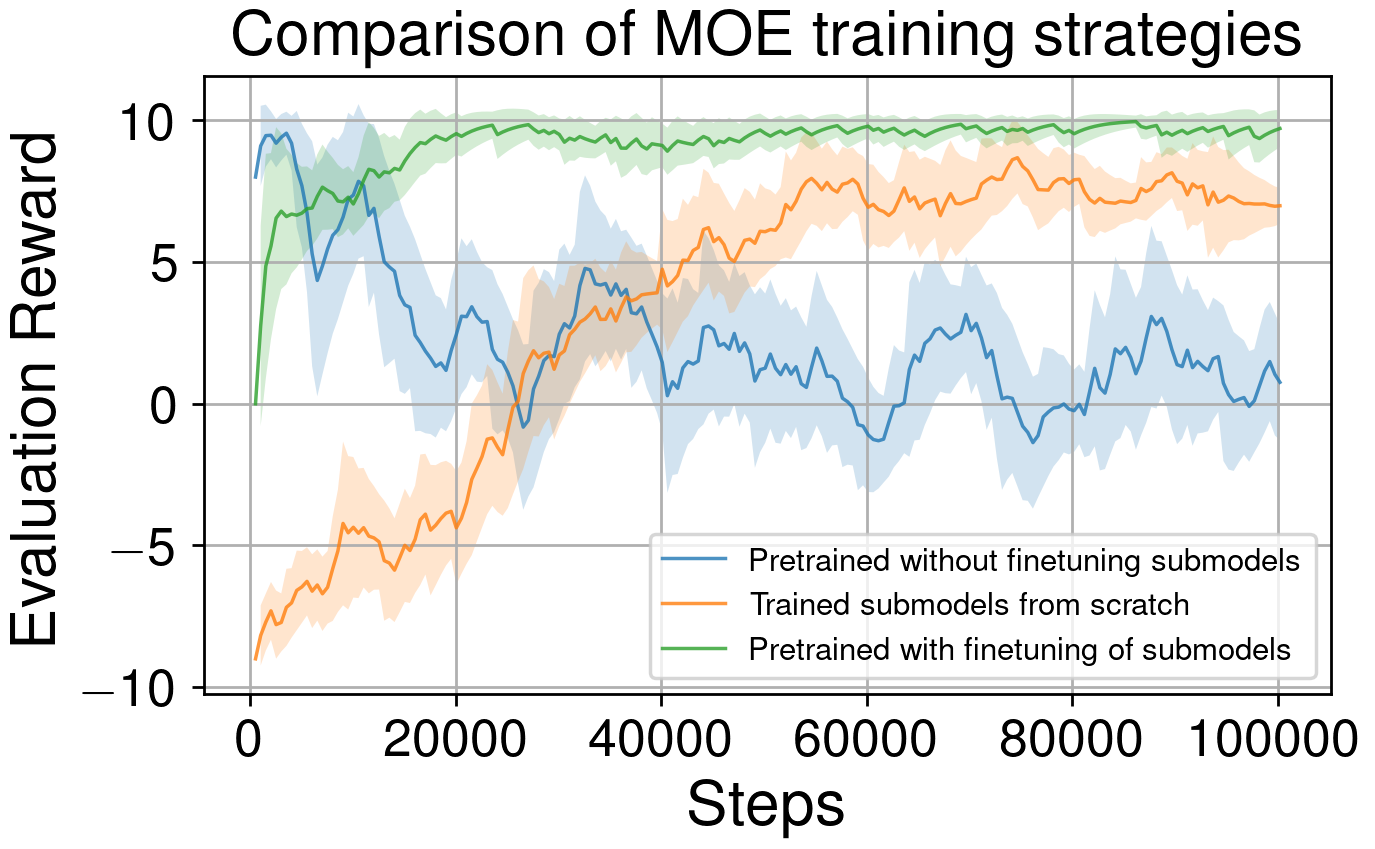
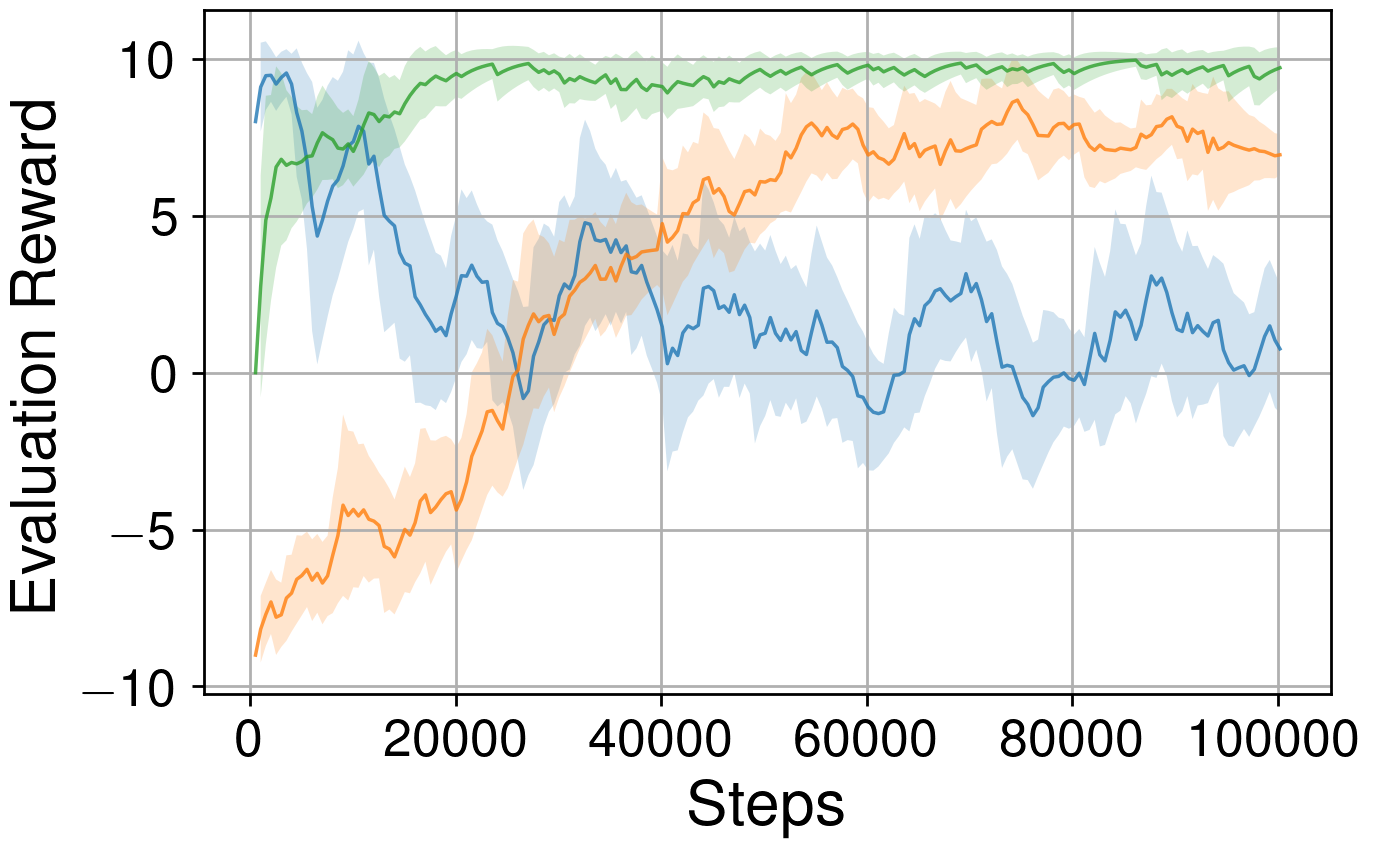
fixed moe graphics

Changed region(s): [[0.0916, 0.0, 0.9775, 0.8269], [0.0, 0.1225, 0.0611, 0.7656]]

diff --git a/report/hockey_eval.tex b/report/hockey_eval.tex
@@ -19,23 +19,38 @@ The performance on the hockey environment is evaluated with the average final pe
 
 The hybrid model is trained against the basic strong and weak opponent, as well as foundation and finetuned \ac{SAC} and \ac{TD3} checkpoints. To prevent overfitting and enhance generalization, opponents are periodically changed throughout training.
 
-\ac{SAC} and \ac{TD3} foundation checkpoints also serve as submodels in the setup with pre-trained experts. As shown in \autoref{fig:moe_train_strategies}, the training strategy that combines pre-trained submodels with simultaneous training of the gate and submodels achieves the highest evaluation reward. The strategy that starts with empty submodels and trains both the gate and submodels also performs well but fails to converge to the maximum reward of ten. Meanwhile, the approach where only the gate is trained initially yields the best evaluation reward but is eventually outperformed by the other strategies as training progresses.
+\ac{SAC} and \ac{TD3} foundation checkpoints also serve as submodels in the setup with pre-trained experts. As shown in \autoref{fig:moe_strategies}, the training strategy that combines pre-trained submodels with simultaneous training of the gate and submodels achieves the highest evaluation reward. The strategy that starts with empty submodels and trains both the gate and submodels also performs well but fails to converge to the maximum reward of ten. Meanwhile, the approach where only the gate is trained initially yields the best evaluation reward but is eventually outperformed by the other strategies as training progresses.
 
 \begin{figure}[h]
     \centering
+    \caption*{Evaluation reward and loss comparison of hybrid model training strategies}
+    \label{fig:moe_strategies}
     \begin{minipage}{0.49\textwidth}
         \centering
         \includegraphics[width=\textwidth]{images/moe_train_strategies.png}
-        \caption{Training strategies for the Hybrid model.}
-        \label{fig:moe_train_strategies}
+        % \caption{Evl strategies (Hybrid model).}
+        % \label{fig:moe_train_strategies}
     \end{minipage}
     \hfill
     \begin{minipage}{0.49\textwidth}
         \centering
         \includegraphics[width=\textwidth]{images/moe_train_strategies_loss.png}
-        \caption{Training strategies for the Hybrid model.}
-        \label{fig:moe_train_strategies_loss}
+        % \caption{Loss comparison (Hybrid model).}
+        % \label{fig:moe_train_strategies_loss}
     \end{minipage}
+
+    \vspace{0.5em} % Kleiner Abstand zur Legende
+    \begin{tikzpicture}
+        % Legenden-Einträge mit geringeren Abständen
+        \draw[blue, thick] (0,0) -- (1,0);
+        \node[right] at (1.2,0) {\small Pre-trained (no fine-tuning)};
+
+        \draw[orange, thick] (5.4,0) -- (6.2,0);
+        \node[right] at (6.4,0) {\small Trained from scratch};
+
+        \draw[green, thick] (2.5,-0.7) -- (3.5,-0.7);
+        \node[right] at (3.7,-0.7) {\small Pre-trained + fine-tuned};
+    \end{tikzpicture}
 \end{figure}
 
-The gate's loss reflects its effectiveness in selecting the optimal submodel for a given state. In \autoref{fig:moe_train_strategies_loss}, periodic peaks in the loss indicate moments when opponents were changed. The training strategy with pre-trained submodels and simultaneous gate-submodel training results in the smoothest loss curve, with a steady decrease after 60,000 steps. In contrast, other strategies exhibit high fluctuations, and their average loss tends to increase over time.
+The gate's loss reflects its effectiveness in selecting the optimal submodel for a given state. In \autoref{fig:moe_strategies}, periodic peaks in the loss indicate moments when opponents were changed. The training strategy with pre-trained submodels and simultaneous gate-submodel training results in the smoothest loss curve, with a steady decrease after 60,000 steps. In contrast, other strategies exhibit high fluctuations, and their average loss tends to increase over time.

diff --git a/report/plots/moe_plots.py b/report/plots/moe_plots.py
@@ -59,14 +59,14 @@ def plot_all_data(a, b, c, title, x_label, y_label, output_file, window=10, ll=N
 
     plot_data(ax, c, "Pretrained with finetuning of submodels", window)
 
-    ax.set_title(title, fontsize=plt.rcParams["axes.titlesize"])
+    # ax.set_title(title, fontsize=plt.rcParams["axes.titlesize"])
     ax.set_xlabel(x_label, fontsize=plt.rcParams["axes.labelsize"])
     ax.set_ylabel(y_label, fontsize=plt.rcParams["axes.labelsize"])
     ax.grid(True)
-    if ll is None:
-        ax.legend(loc="lower right")
-    else:
-        ax.legend(loc="upper left")
+    # if ll is None:
+    # ax.legend(loc="lower right")
+    # else:
+    # ax.legend(loc="upper left")
 
     plt.savefig(f"../images/{output_file}.png")
     plt.close(fig)

diff --git a/report/template.tex b/report/template.tex
@@ -14,6 +14,11 @@
 \usepackage{float}
 \usepackage{hyperref}
 
+\usepackage{caption}
+% \captionsetup[figure]{labelformat=empty}
+% \usepackage{hyperref}
+% \def\figureautorefname{}
+
 \usepackage{tikz}
 \usetikzlibrary{shapes.geometric, arrows}
 \tikzstyle{startstop} = [rectangle, rounded corners, minimum width=2.5cm, minimum height=0.8cm, text centered, draw=black, fill=red!30]
